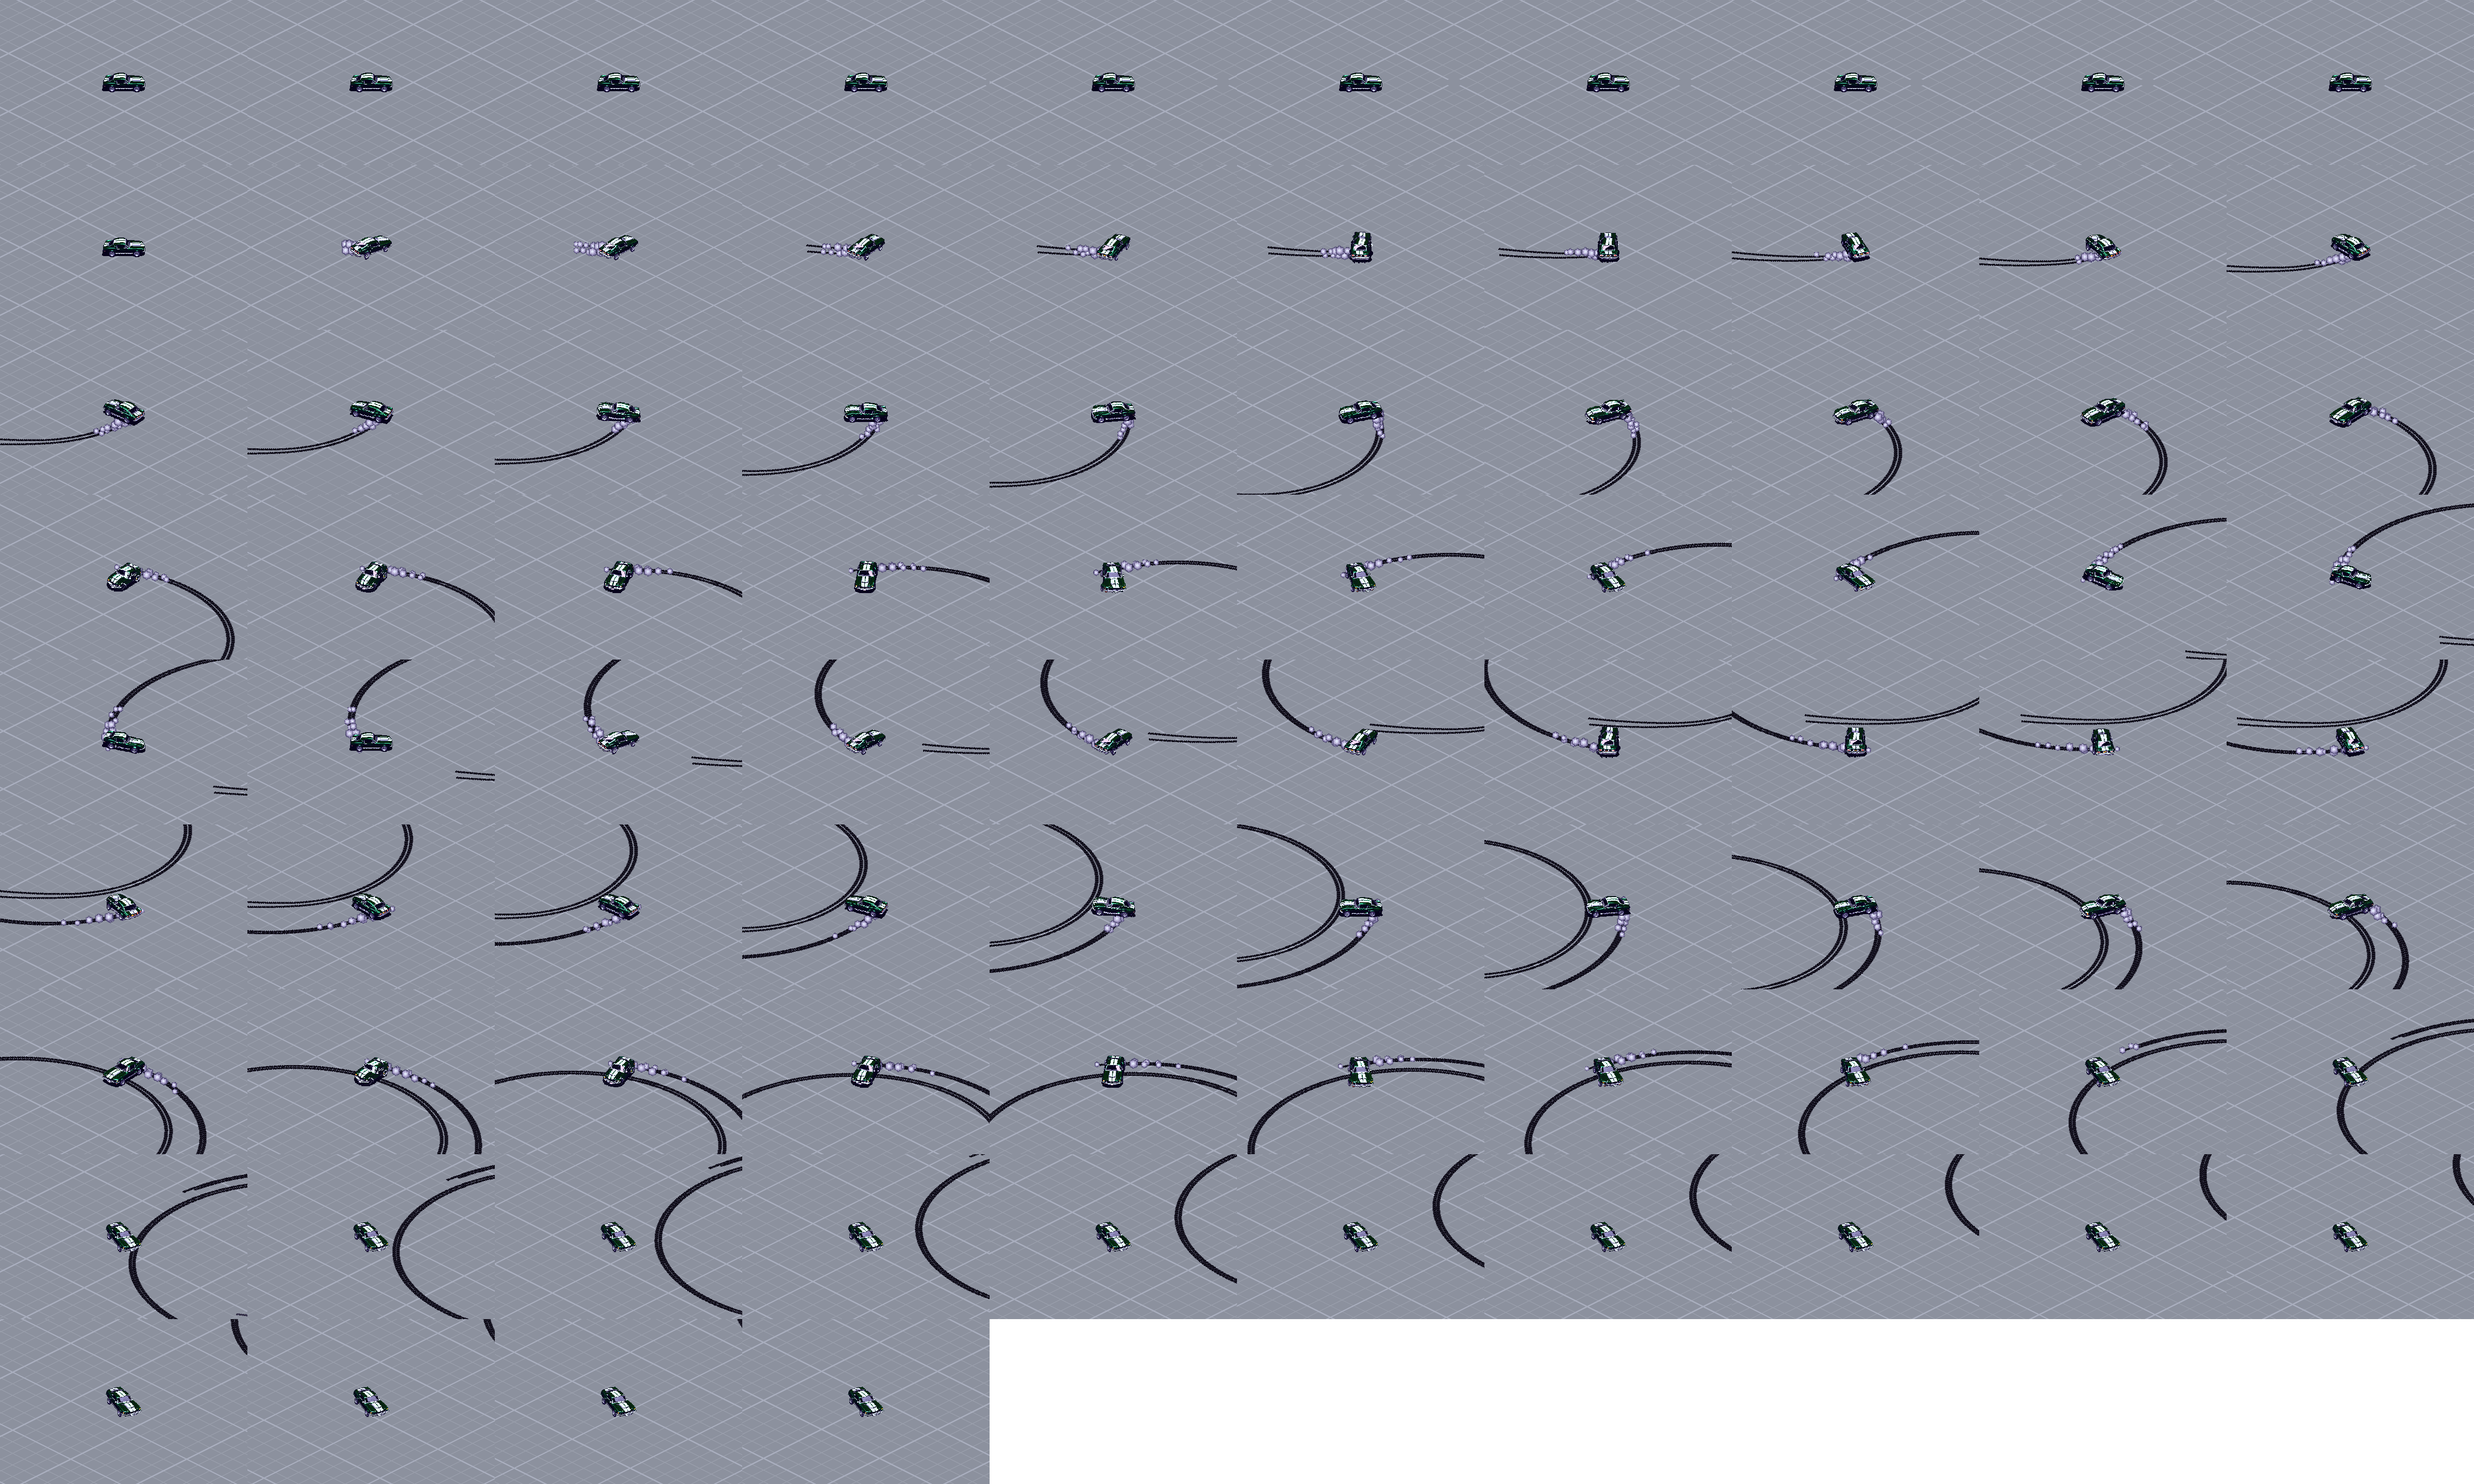
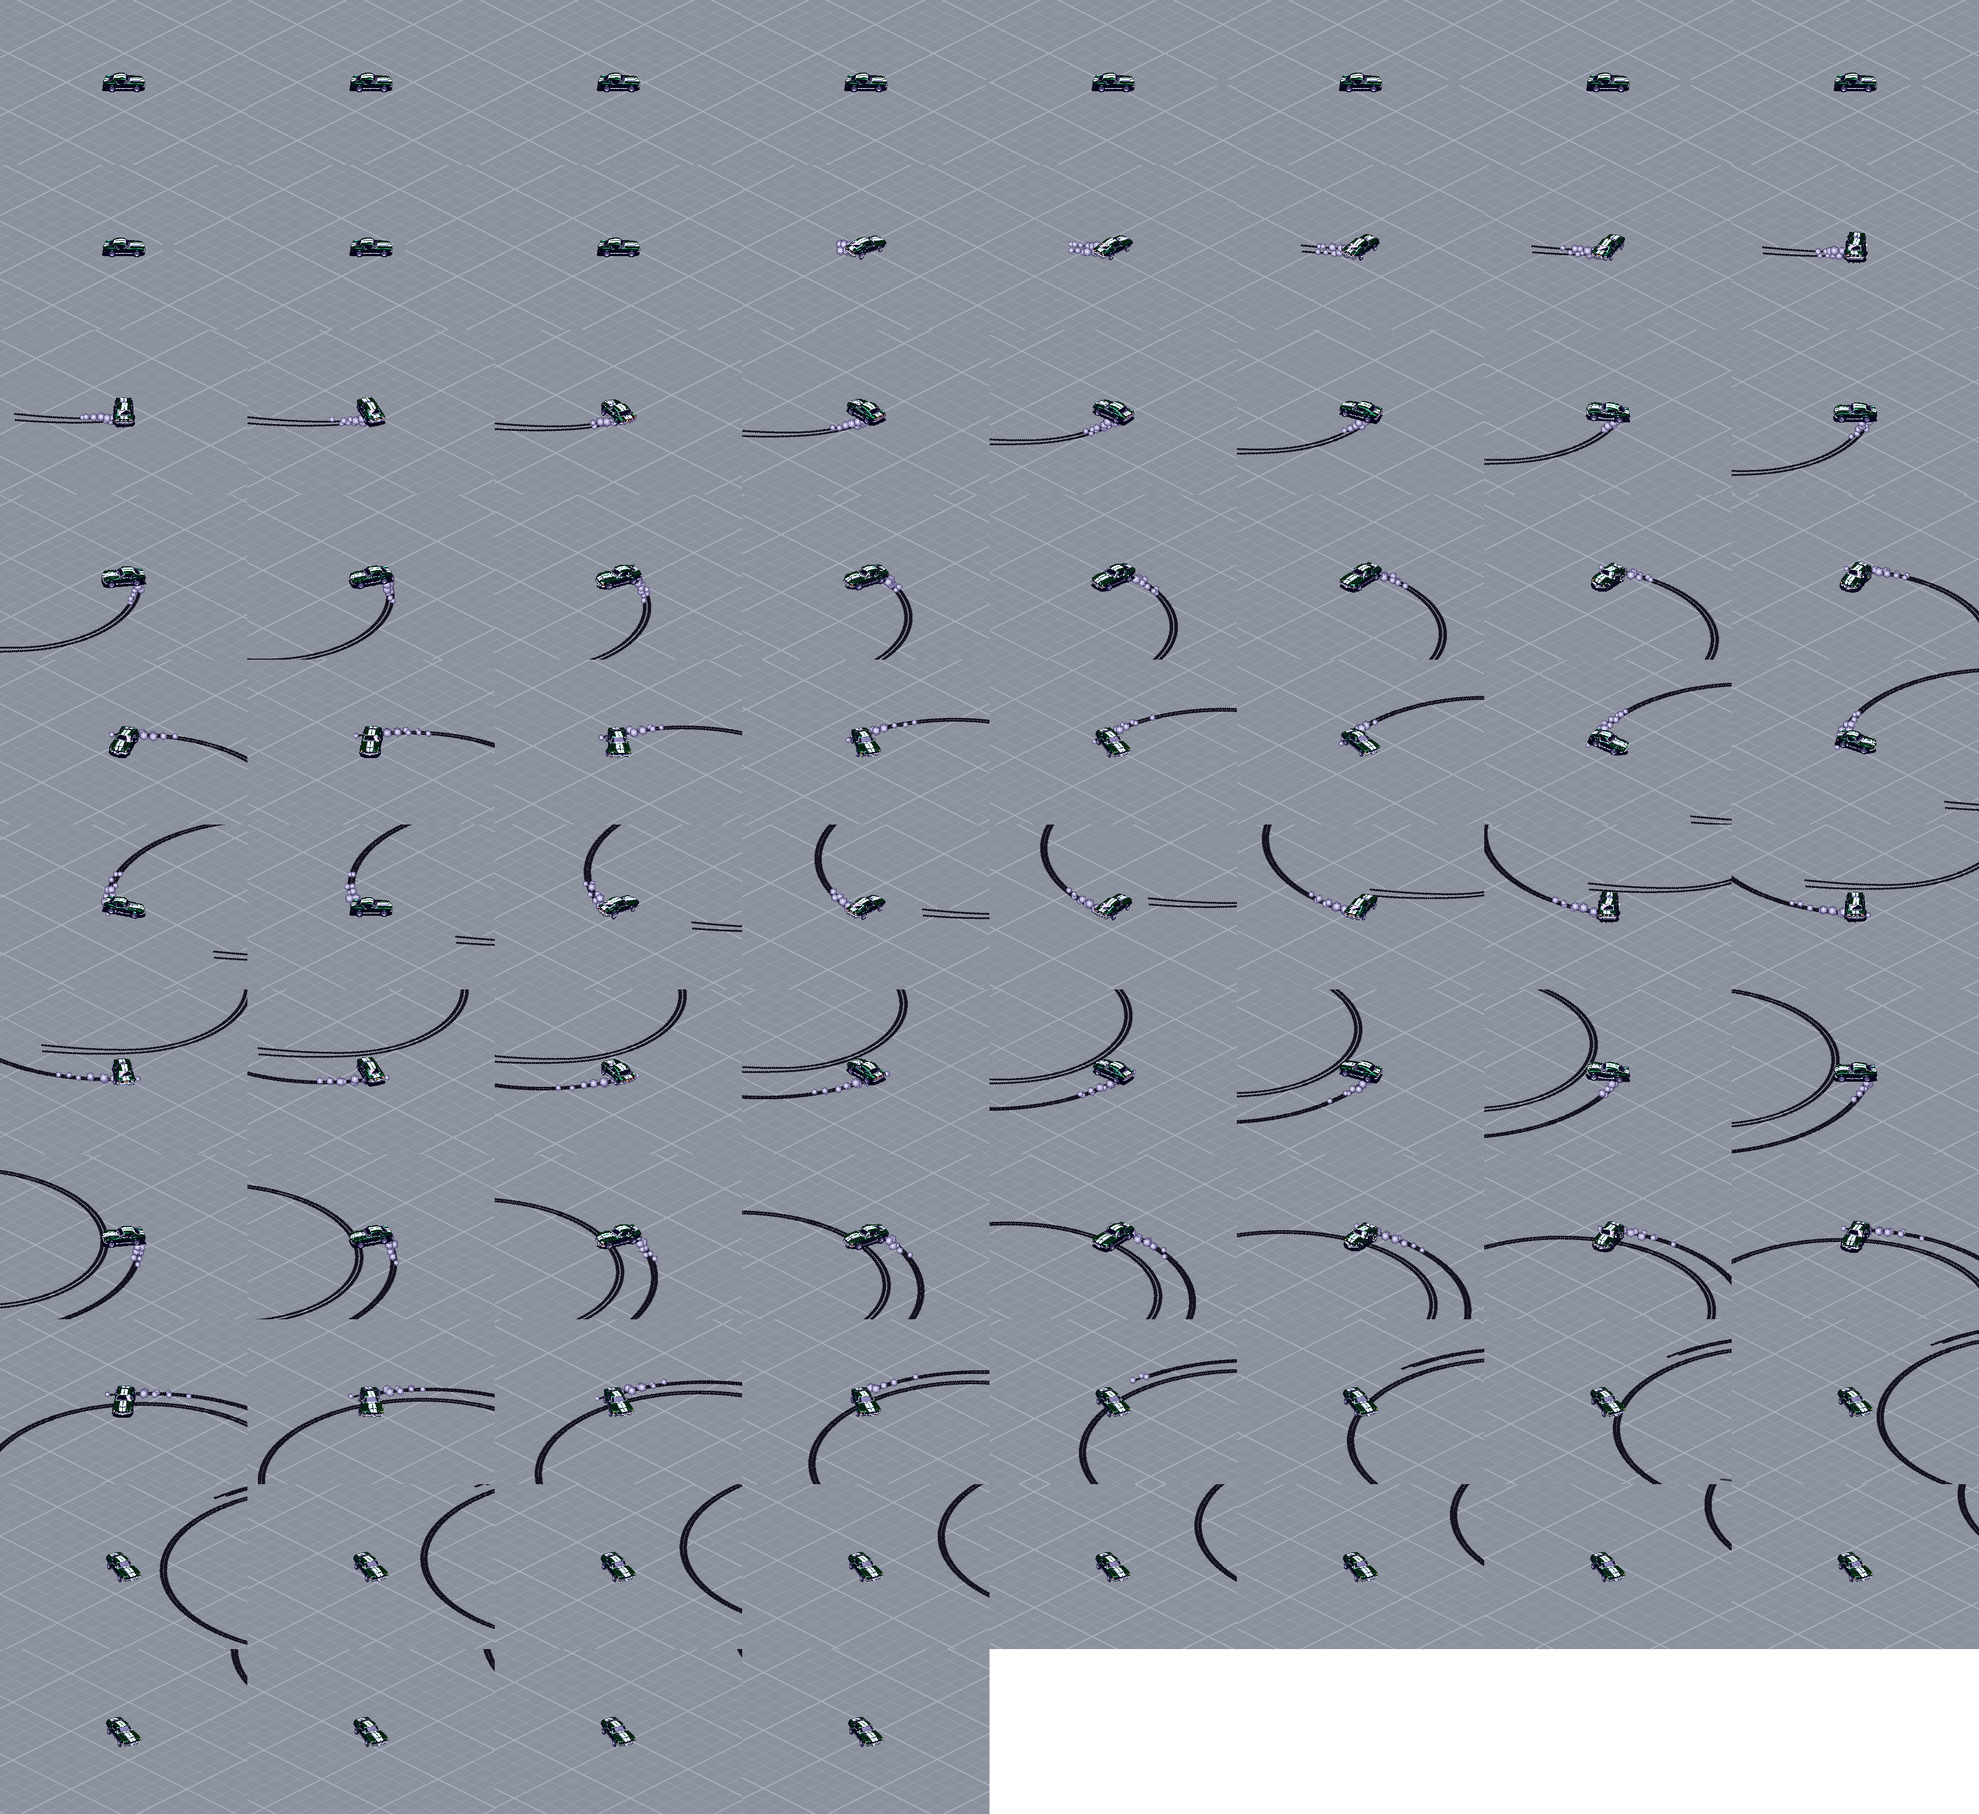
T-485: clip sheets in pages of at most 4096 px, freed when their slide is hidden
Claude-Session: https://claude.ai/code/session_01N2d996vfhYzGeir2NtRNR3

diff --git a/game/tools/gif_to_sheet.py b/game/tools/gif_to_sheet.py
@@ -1,8 +1,9 @@
 """Turns the tutorial clips' GIFs into frame sheets the game plays (task T-485).
 
 Godot does not play GIFs. For each GIF this writes, next to it, `<name>_sheet.png` (every frame
-side by side in a grid, RGBA, no resampling: 1 GIF pixel = 1 sheet pixel) and `<name>_sheet.json`
-(frame size, columns, frame count and each frame's own duration in milliseconds, read from the
+in a grid, RGBA, no resampling: 1 GIF pixel = 1 sheet pixel; a clip that does not fit 4096 x 4096
+continues on `<name>_sheet_1.png` and so on) and `<name>_sheet.json`
+(frame size, columns, pages, frame count and each frame's own duration in milliseconds, read from the
 GIF, so the timing is the GIF's). ClipPlayer (game/scripts/menu/clip_player.gd) reads both.
 
 Run from the repo root:  python game/tools/gif_to_sheet.py [gif ...]
@@ -15,6 +16,7 @@ from pathlib import Path
 
 from PIL import Image, ImageSequence
 
+MAX_SIDE = 4096  # WebGL (the itch.io Web build) cannot load a texture with a side over 4096
 CLIPS = Path(__file__).resolve().parent.parent / "art" / "tutorial" / "clips"
 
 
@@ -28,43 +30,61 @@ def read_gif(path):
     return frames, durations
 
 
-def build_sheet(frames):
-    """(sheet image, columns): the frames in a near-square grid, row by row."""
+def build_sheets(frames, max_side=MAX_SIDE):
+    """(pages, columns, rows per page): the frames in a grid, row by row, split into pages whose
+    sides are at most `max_side` pixels (WebGL cannot load a bigger texture)."""
     w, h = frames[0].size
-    cols = max(1, math.ceil(math.sqrt(len(frames))))
-    rows = math.ceil(len(frames) / cols)
-    sheet = Image.new("RGBA", (cols * w, rows * h), (0, 0, 0, 0))
-    for i, f in enumerate(frames):
-        sheet.paste(f, ((i % cols) * w, (i // cols) * h))
-    return sheet, cols
+    cols = max(1, max_side // w)
+    rows = max(1, max_side // h)
+    per_page = cols * rows
+    pages = []
+    for first in range(0, len(frames), per_page):
+        chunk = frames[first:first + per_page]
+        page_rows = math.ceil(len(chunk) / cols)
+        page = Image.new("RGBA", (min(cols, len(chunk)) * w, page_rows * h), (0, 0, 0, 0))
+        for i, f in enumerate(chunk):
+            page.paste(f, ((i % cols) * w, (i // cols) * h))
+        pages.append(page)
+    return pages, cols, rows
+
+
+def page_name(stem, n):
+    return f"{stem}_sheet.png" if n == 0 else f"{stem}_sheet_{n}.png"
 
 
 def convert(gif_path):
     gif_path = Path(gif_path)
     frames, durations = read_gif(gif_path)
-    sheet, cols = build_sheet(frames)
-    out = gif_path.with_name(gif_path.stem + "_sheet.png")
-    sheet.save(out, optimize=True)
+    pages, cols, rows = build_sheets(frames)
+    for old in gif_path.parent.glob(gif_path.stem + "_sheet*.png"):
+        old.unlink()
+    names = []
+    for n, page in enumerate(pages):
+        name = page_name(gif_path.stem, n)
+        page.save(gif_path.with_name(name), optimize=True)
+        names.append(name)
     meta = {
         "clip": gif_path.stem,
         "task": "T-485",
         "source": gif_path.name,
         "frame_size": list(frames[0].size),
         "columns": cols,
+        "rows_per_page": rows,
+        "frames_per_page": cols * rows,
+        "pages": names,
         "frames": len(frames),
         "durations_ms": durations,
         "seconds": sum(durations) / 1000.0,
     }
-    out.with_suffix(".json").write_text(json.dumps(meta, indent=2) + "\n")
-    return out, meta
+    gif_path.with_name(gif_path.stem + "_sheet.json").write_text(json.dumps(meta, indent=2) + "\n")
+    return names, meta
 
 
 def main(argv):
     gifs = [Path(a) for a in argv] or sorted(CLIPS.glob("*.gif"))
     for g in gifs:
-        out, meta = convert(g)
-        print(f"{g.name}: {meta['frames']} frames, {meta['seconds']:.2f} s -> {out.name} "
-              f"({out.stat().st_size // 1024} KB)")
+        names, meta = convert(g)
+        print(f"{g.name}: {meta['frames']} frames, {meta['seconds']:.2f} s -> {', '.join(names)}")
 
 
 if __name__ == "__main__":

diff --git a/game/tools/test_gif_to_sheet.py b/game/tools/test_gif_to_sheet.py
@@ -18,18 +18,29 @@ class SheetTest(unittest.TestCase):
             frames = [Image.new("RGB", (4, 3), c) for c in colours]
             gif = Path(tmp) / "t.gif"
             frames[0].save(gif, save_all=True, append_images=frames[1:], duration=[40, 80, 40, 60, 40], loop=0)
-            out, meta = g.convert(gif)
+            names, meta = g.convert(gif)
+            out = Path(tmp) / names[0]
             self.assertEqual(meta["frames"], 5)
             self.assertEqual(meta["durations_ms"], [40, 80, 40, 60, 40])
-            self.assertEqual(meta["columns"], 3)
+            self.assertEqual(meta["columns"], 1024)
             self.assertEqual(meta["frame_size"], [4, 3])
             sheet = Image.open(out)
-            self.assertEqual(sheet.size, (12, 6))
+            self.assertEqual(sheet.size, (20, 3))
             self.assertEqual(sheet.convert("RGBA").getpixel((1, 1)), colours[0] + (255,))
             self.assertEqual(sheet.convert("RGBA").getpixel((9, 1)), colours[2] + (255,))
-            self.assertEqual(sheet.convert("RGBA").getpixel((1, 4)), colours[3] + (255,))
+            self.assertEqual(sheet.convert("RGBA").getpixel((13, 1)), colours[3] + (255,))
             self.assertTrue(out.with_suffix(".json").exists())
             self.assertEqual(json.loads(out.with_suffix(".json").read_text())["clip"], "t")
+
+    def test_big_clips_split_into_pages_of_at_most_4096(self):
+        frames = [Image.new("RGB", (480, 320), (i, 0, 0)) for i in range(100)]
+        pages, cols, rows = g.build_sheets(frames)
+        self.assertEqual((cols, rows), (8, 12))
+        self.assertEqual(len(pages), 2, "100 frames do not fit one 8 x 12 page")
+        for p in pages:
+            self.assertLessEqual(max(p.size), 4096)
+        self.assertEqual(pages[0].size, (3840, 3840))
+        self.assertEqual(pages[1].getpixel((1, 1))[0], 96, "page 2 starts at frame 96")
 
 
 if __name__ == "__main__":

diff --git a/tasks/T-485-tutorial-redraw-slides.md b/tasks/T-485-tutorial-redraw-slides.md
@@ -1,7 +1,7 @@
 ---
 id: T-485
 title: Build the redrawn tutorial slides: four slides with keycaps, the loop chain, the clips, missions and the run timeline
-status: in-progress
+status: in-qa
 from: project-lead
 to: ui
 lead: Greenbull
@@ -84,3 +84,10 @@ UI Agent, T-485: the four redrawn tutorial slides are built to the approved draf
 - **Screenshots (1280 x 720):** `art-archive/T-485/screenshots/slide1.png`, `slide2.png`, `slide3.png`, `slide4.png`. The draft: `C:/Users/andre/AppData/Local/Temp/claude/C--solid-carbide-game/89bfdaa9-8914-40ee-9f4b-4fc6ef5a226d/scratchpad/tutorial/approved/tutorial-redraft-v3-approved.html`.
 - **Tests I ran (QA runs the full set):** `test_tutorial_slides` 24 of 24 (280 asserts), `test_shared_button` 12 of 12, `test_tutorial_flow` 8 of 8, `test_tutorial_setting` 3 of 3, `test_tutorial_clips` 4 of 4, and `python -m unittest game/tools/test_gif_to_sheet.py` OK. Note for the team: `-gtest=res://...` runs the whole suite here (GUT ignored it); `-gselect=<file name without .gd>` runs one file. My first foreground run therefore started the full set and was left running until the tool stopped it; one orphan Godot process (pid 14216, from `run_tests.sh`) may still be running and ends on its own at the time limit; I was not allowed to kill it.
 - Nothing under game/data/levels/ touched. Documents affected: docs/hud-and-menus.md, game/docs/hud-and-menus/tutorial-slides.md.
+- 2026-11-01, in-progress → in-qa: Four slides built to the approved draft, clips played from frame sheets; my tests green, QA to run the full sets
+
+Web build fix (coordinator, 2026-11-01): the sheets are now at most 4096 x 4096 (WebGL's limit) and freed when their slide is hidden.
+- `gif_to_sheet.py` lays frames out 8 columns wide and 12 rows high at most, and splits a clip into pages (`<name>_sheet.png`, `<name>_sheet_1.png`); the JSON lists the pages. Page sizes: drift 3840 x 3840 and 3840 x 2240 (two pages), long_drift 3840 x 3520, alt_drift 3840 x 2560, ramp_jump 3840 x 2240. Test added for the split.
+- `ClipPlayer` loads a clip's pages when its slide is shown and frees them when it is hidden (`unload()`), so only one slide's clips are in memory. Peak texture memory: slide 1 about 118 MB (two pages of the drift clip), slide 2 about 127 MB (three clips); it was about 214 MB for all four. Test added: every page is at most 4096 a side, and slide 1's clip is freed when slide 2 shows.
+- Tests re-run with `-gselect`: test_tutorial_slides 25 of 25, test_tutorial_flow 8 of 8, test_shared_button 12 of 12, test_tutorial_clips 4 of 4, test_tutorial_setting 3 of 3; `python -m unittest game/tools/test_gif_to_sheet.py` OK.
+- Web export: `python tools/publish_itch.py --dry-run` stopped ("not on master"), so I did not use it. I exported the Web preset with Godot directly to the scratchpad (not pushed): it finished with no errors and the .pck holds all five sheet pages. I did not open it in a browser, so WebGL loading is not confirmed beyond the sizes.
